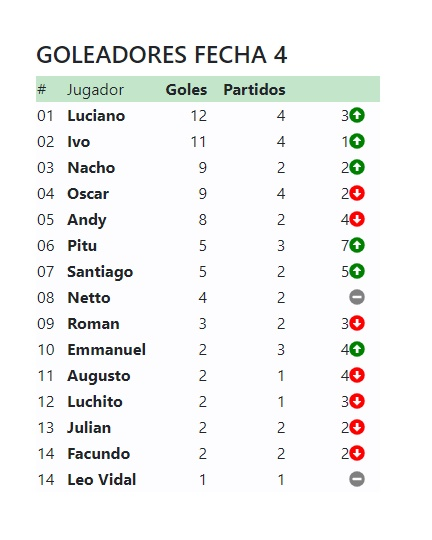
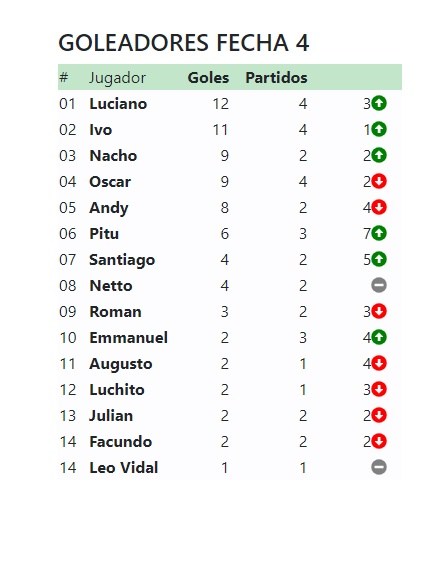
Fecha 4

diff --git a/Goleadores/Goleadores Fecha 4.htm b/Goleadores/Goleadores Fecha 4.htm
@@ -79,14 +79,14 @@
 	<tr class="table-light">
 		<td>06</td>	  
 		<th scope="row">Pitu</th>
-		<td class="flotante">5</td>
+		<td class="flotante">6</td>
 		<td class="flotante">3</td>
 	<td class="flotante"> 7<i class="fas fa-arrow-alt-circle-up" style='color:green'></i></td>
 	</tr>
 	<tr class="table-light">
 		<td>07</td>	  
 		<th scope="row">Santiago</th>
-		<td class="flotante">5</td>
+		<td class="flotante">4</td>
 		<td class="flotante">2</td>
 	<td class="flotante"> 5<i class="fas fa-arrow-alt-circle-up" style='color:green'></i></td>
 	</tr>
